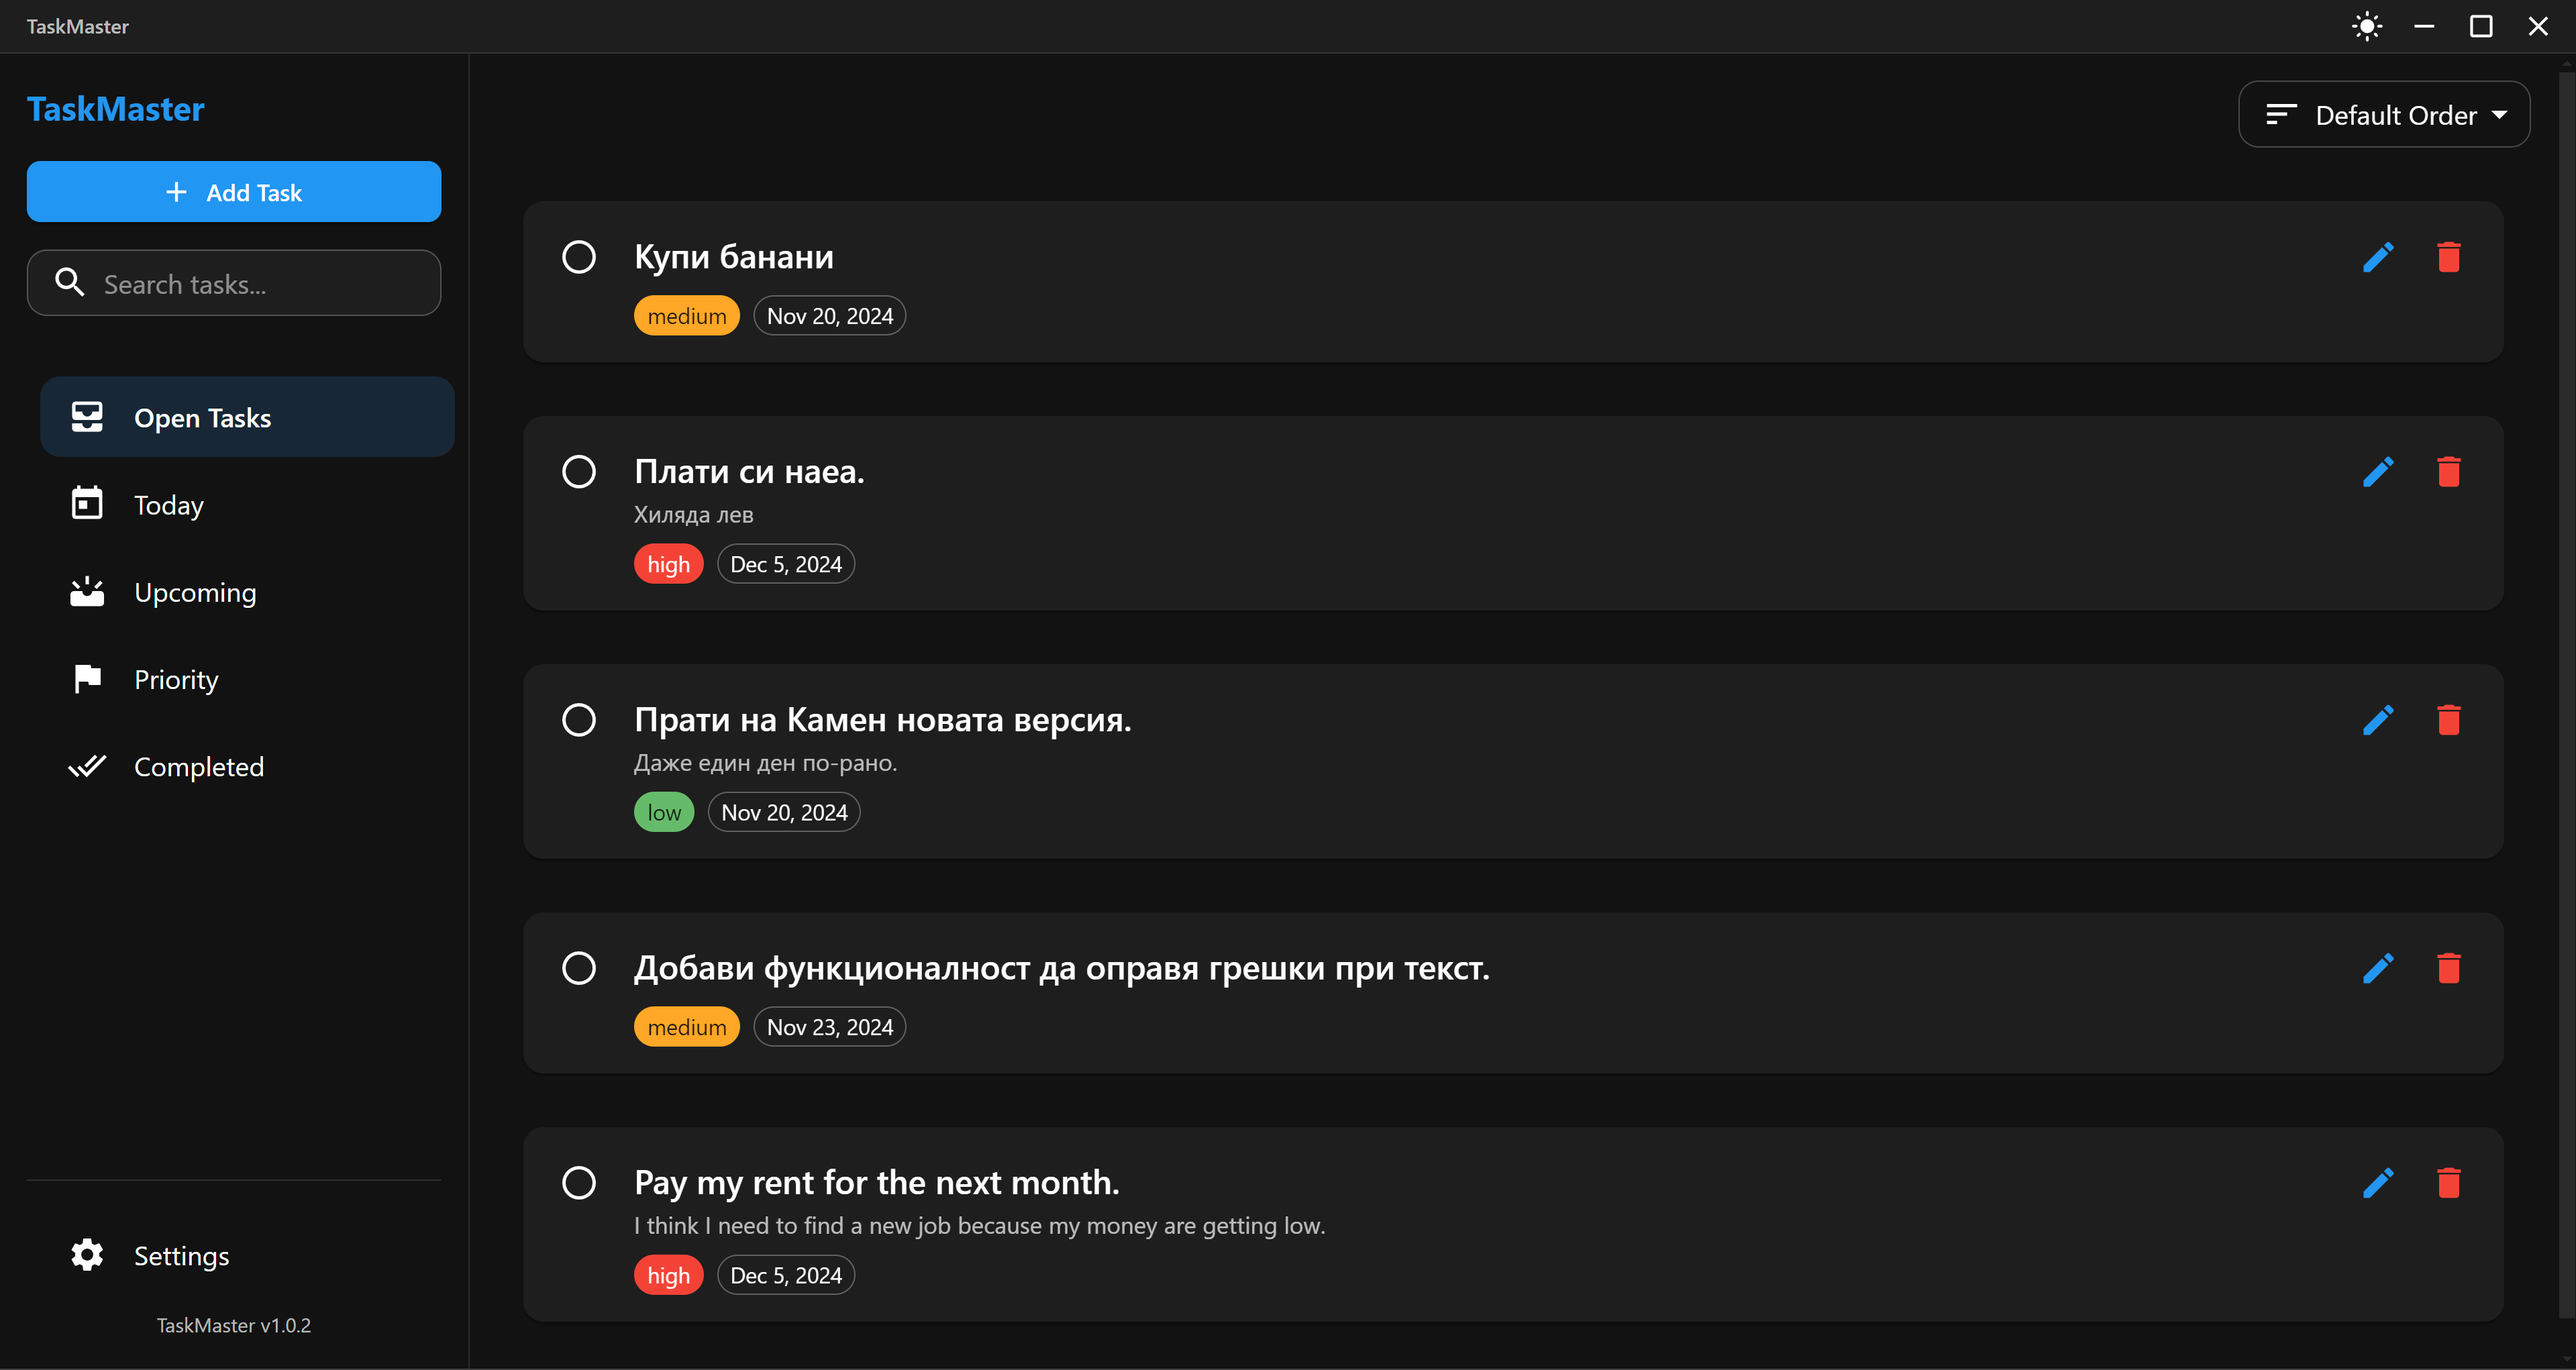
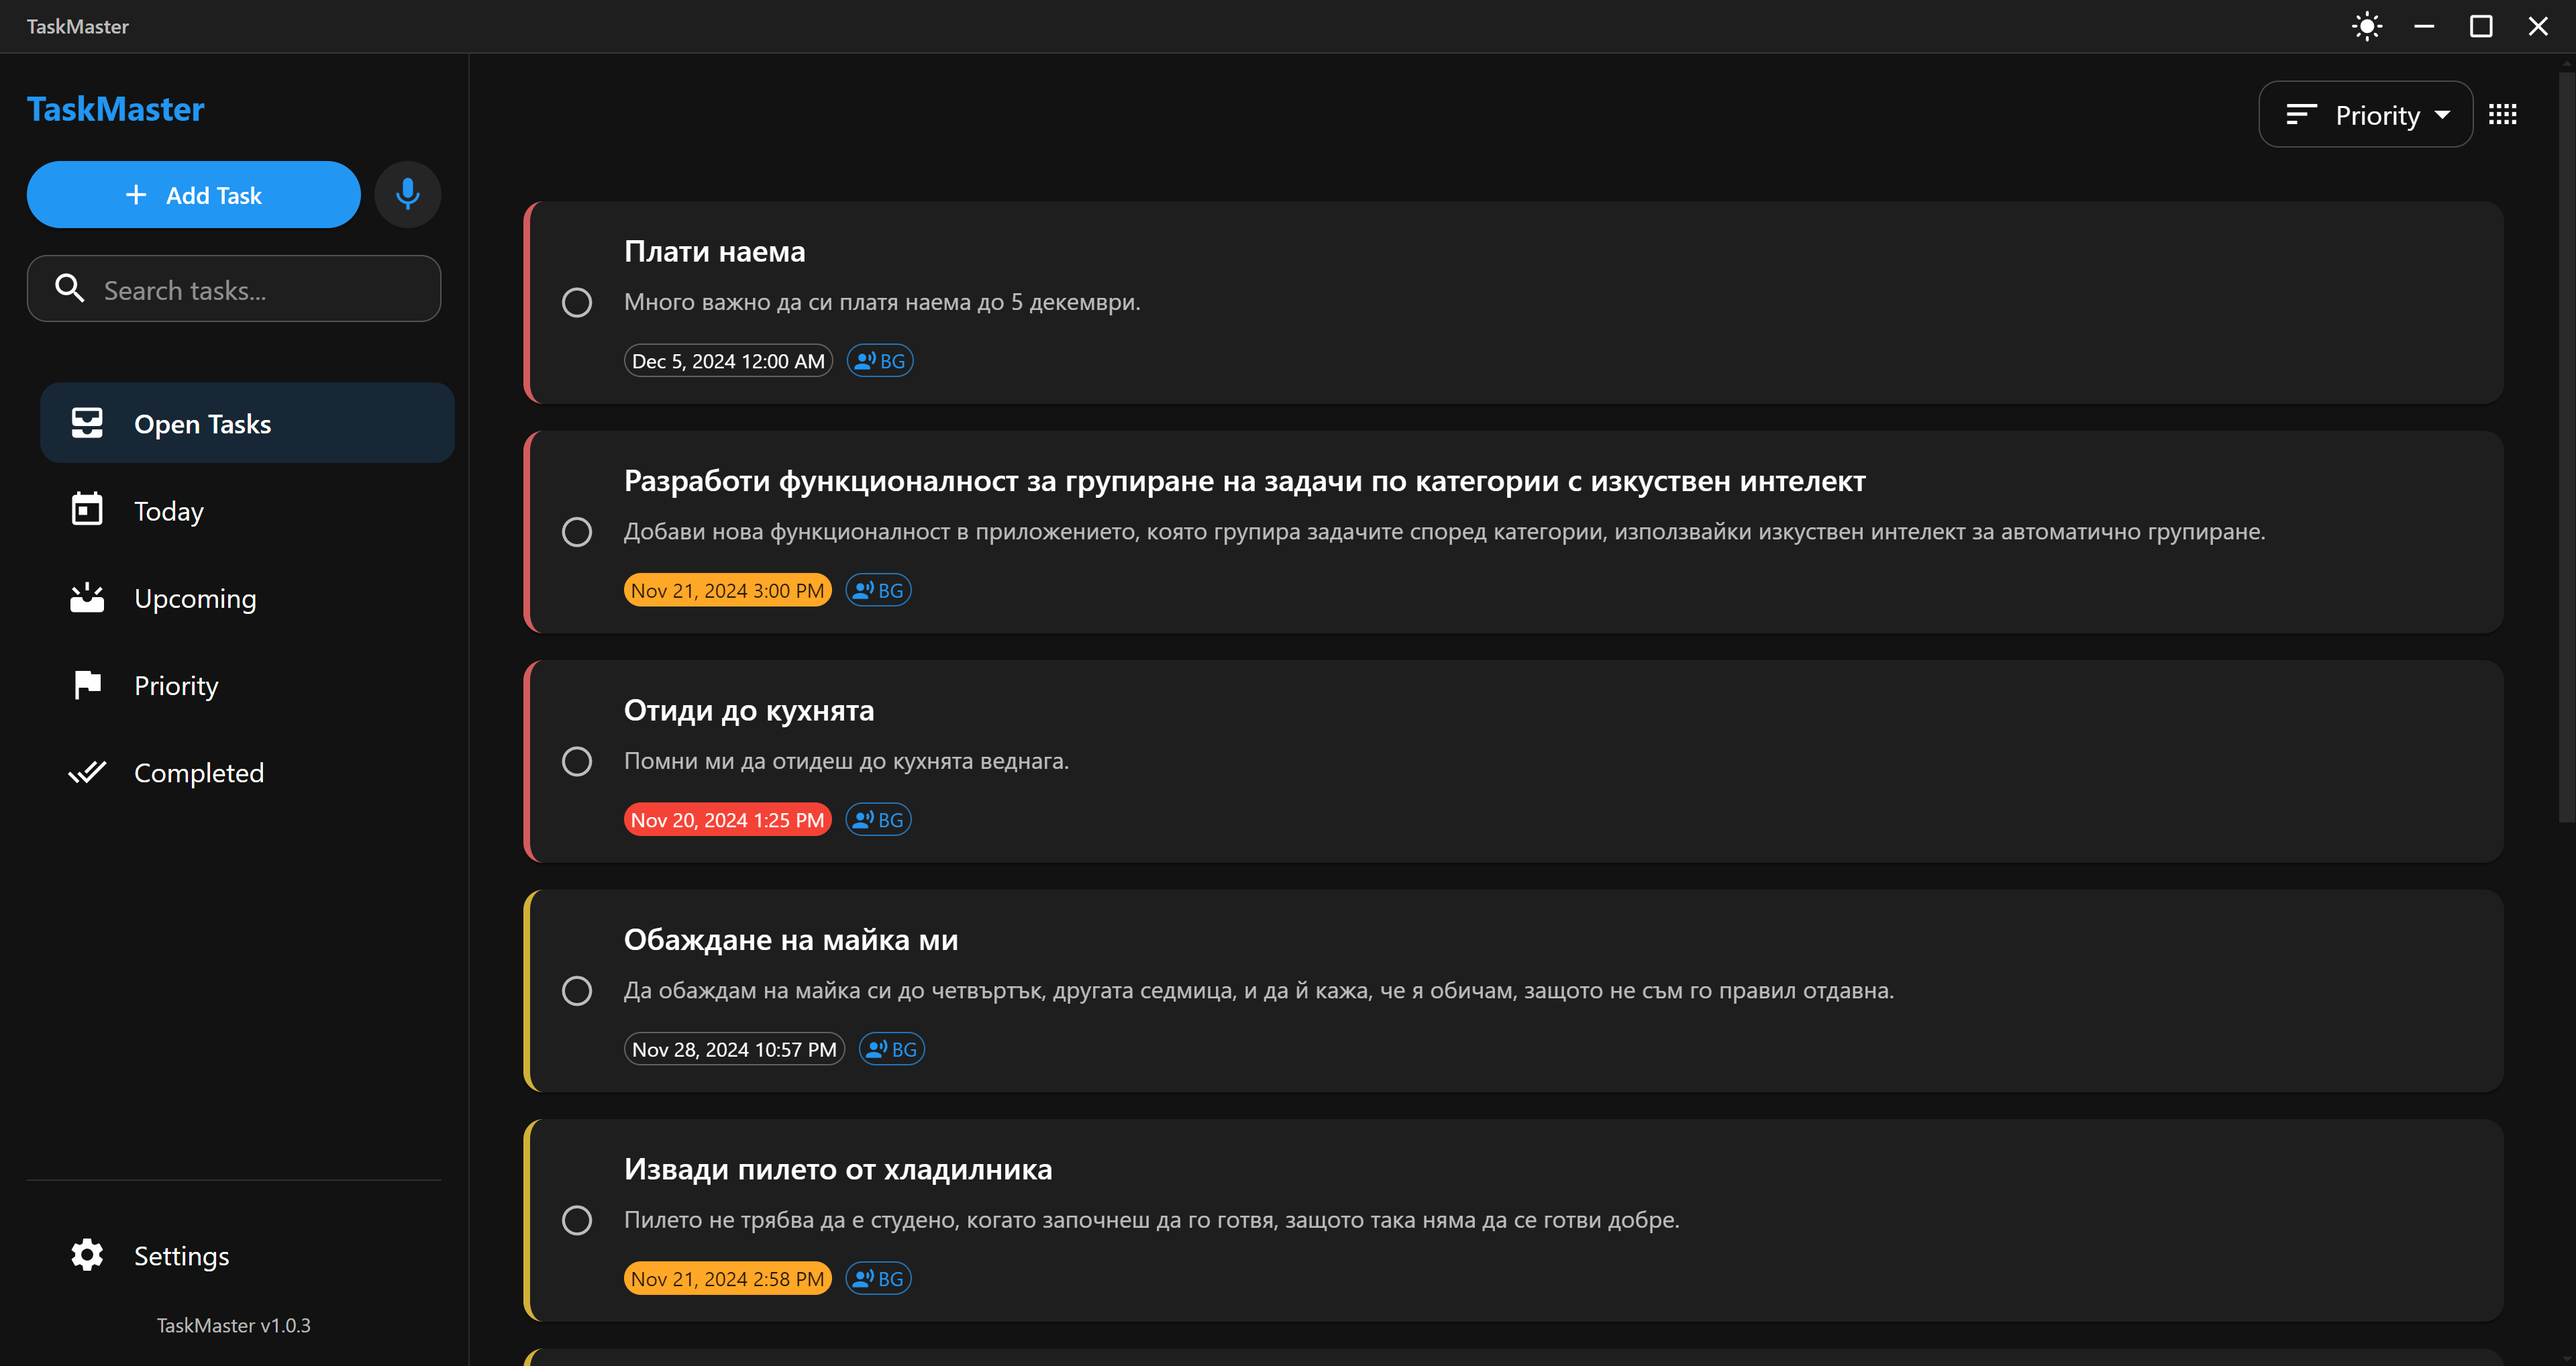
Readme update

diff --git a/README.md b/README.md
@@ -32,6 +32,39 @@ A beautiful and responsive task management application built with Electron and R
 - Fast and efficient
 - Auto-updates support
 - Voice-to-Text with Whisper AI model
+- Smart task creation with AI assistance
+
+## AI-Powered Task Management
+
+TaskMaster now features intelligent task creation using AI services. This powerful integration allows you to:
+- Convert speech into a task and task description
+- Smartly set priority and due dates
+- Support multiple languages for task creation
+
+### Setting Up AI Services
+
+1. Go to Settings (bottom left corner)
+2. Navigate to the "AI Services" tab
+3. Configure your AI settings:
+   - Enter your API key 
+   - Set the base URL for your AI service 
+   - Choose your preferred model
+4. Save your settings
+
+> **Note**: The application comes pre-configured to use Nebius AI Studio, but you can use any OpenAI-compatible API service by changing the base URL. Nebius studio provides $100 free credit on registration currently.
+
+### Using Smart Task Creation
+
+1. When creating a new task:
+   - Click the microphone icon (🎤) next to the "+ Add Task" button on the main form
+2. Voice input:
+   - Speak your task details clearly
+   - Click the stop button when finished
+   - The Whisper model will transcribe your speech
+3. The AI service will process your input and return a new task
+
+
+> **Tip**: You can view the original transcribed text alongside the AI-processed version by hovering on the translation icon.
 
 ## Voice-to-Text with Whisper
 
